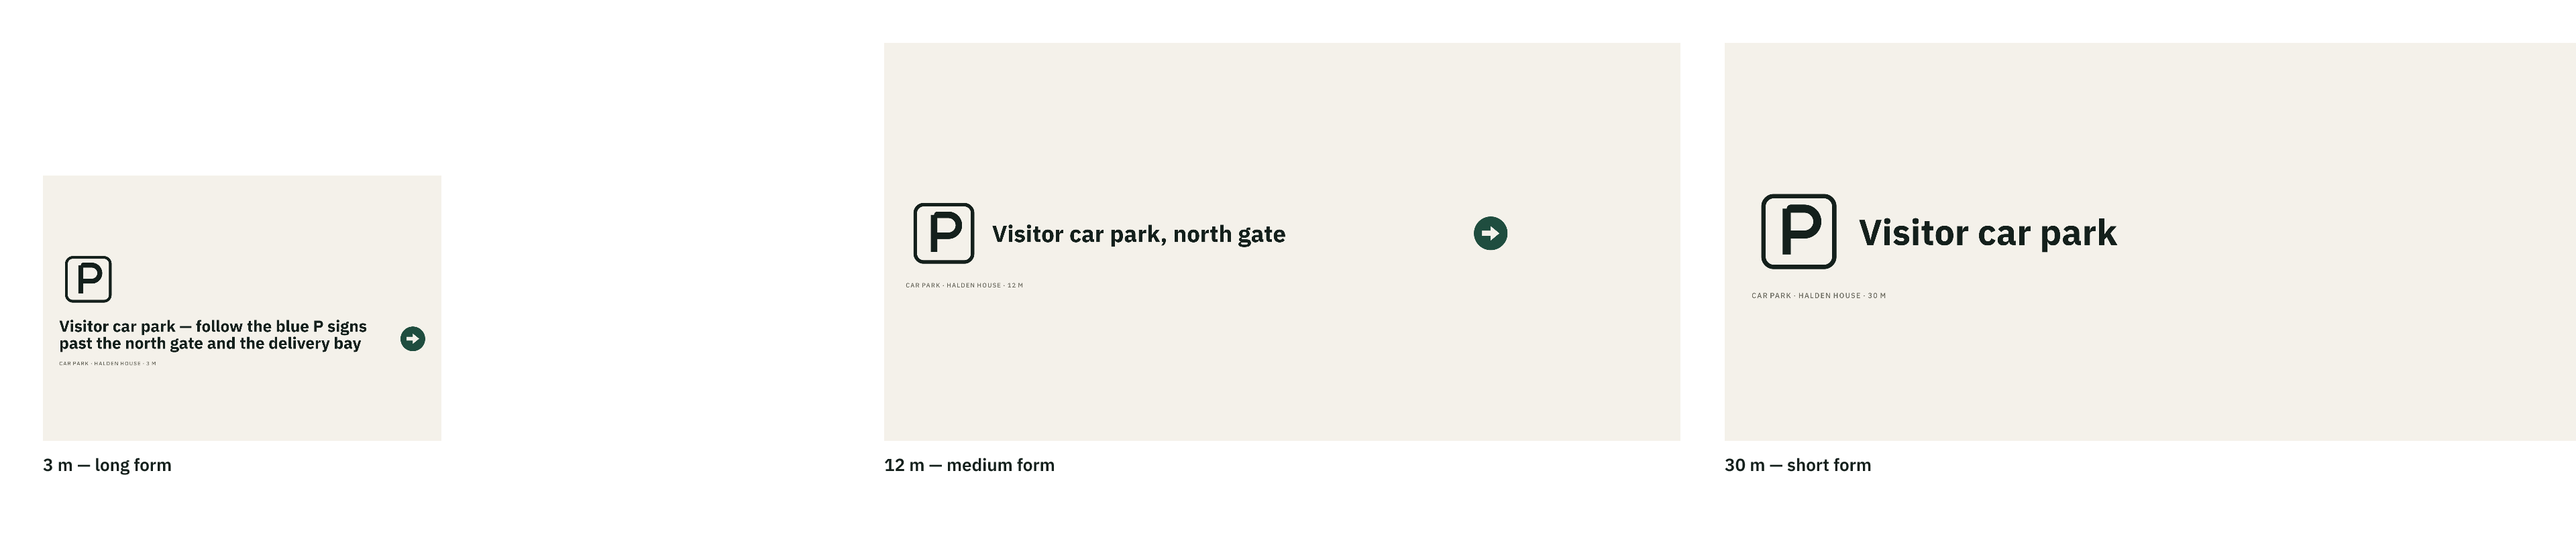
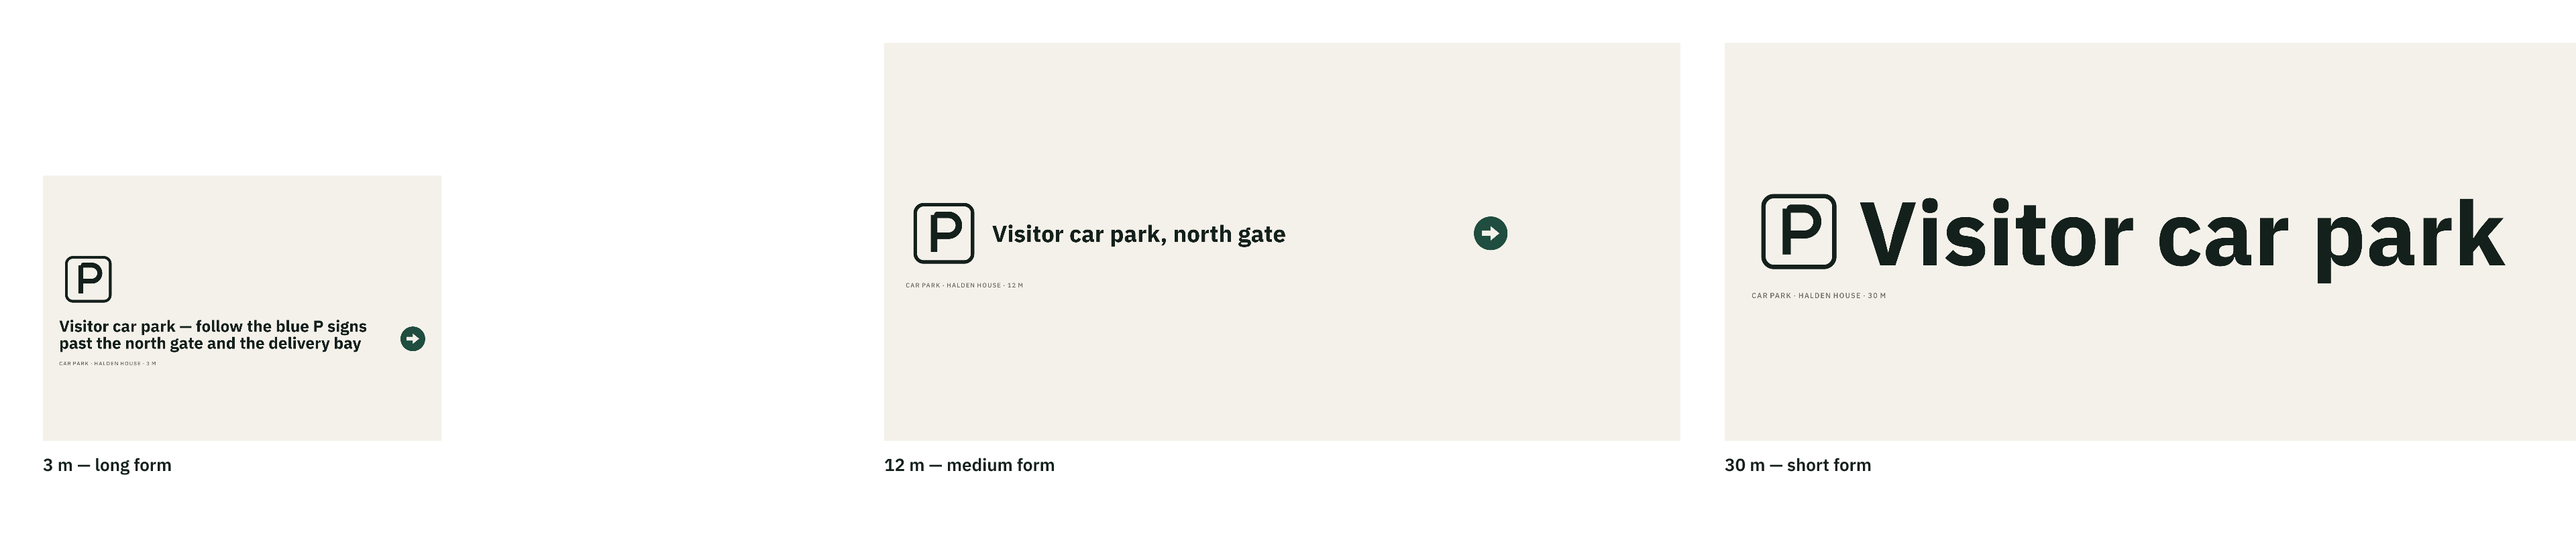
fix(design): point the arrow the right way, centre the copy, and set the 30 m type boldly
Three defects found by looking at the rendered strip rather than trusting the
dimensions:
- ARROW_POINTS had left and right swapped, so arrow="right" drew a left arrow.
- space-between pinned the copy to the top and the foot to the bottom, leaving a
  dead void; the copy is now centred with the foot beneath it.
- the far fit sizes (160/140/120) were far below what the 3200 px column holds,
  so the 30 m sign read as small text on a wide board. 400/340/280 fills the
  column and keeps the refusal decisive (the long form needs ~12,600 px).

Changed region(s): [[0.7188, 0.375, 0.9688, 0.5312]]

diff --git a/src/layout.ts b/src/layout.ts
@@ -54,7 +54,9 @@ export const LAYOUT: Record<FormatName, FormatLayout> = {
     padding: 120,
     arrangement: "row",
     copyColumnWidth: 3200,
-    fitSizes: [160, 140, 120],
+    // 340 px is where a four-word short form fills the 3200 px column; the long form needs roughly
+    // 12,600 px at the smallest size, so the refusal stays decisive.
+    fitSizes: [400, 340, 280],
     maxLines: 1,
     pictogramBox: 420,
     arrowBox: 200,
